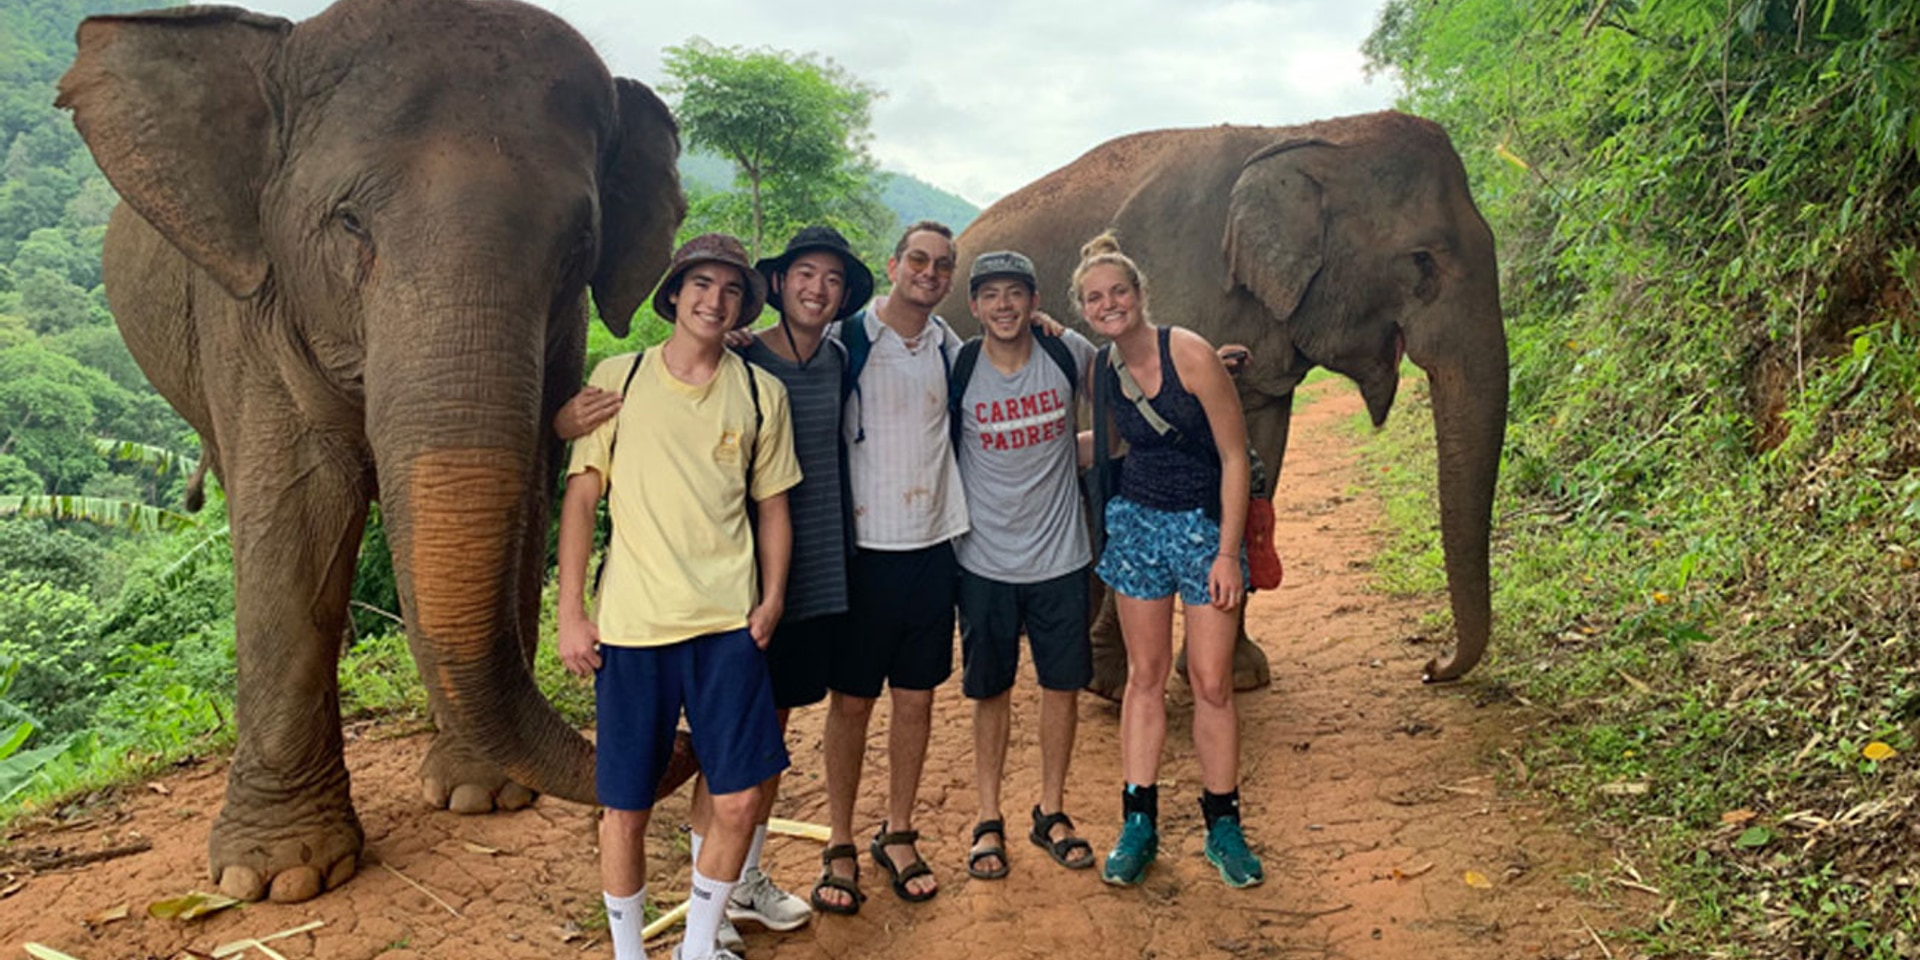
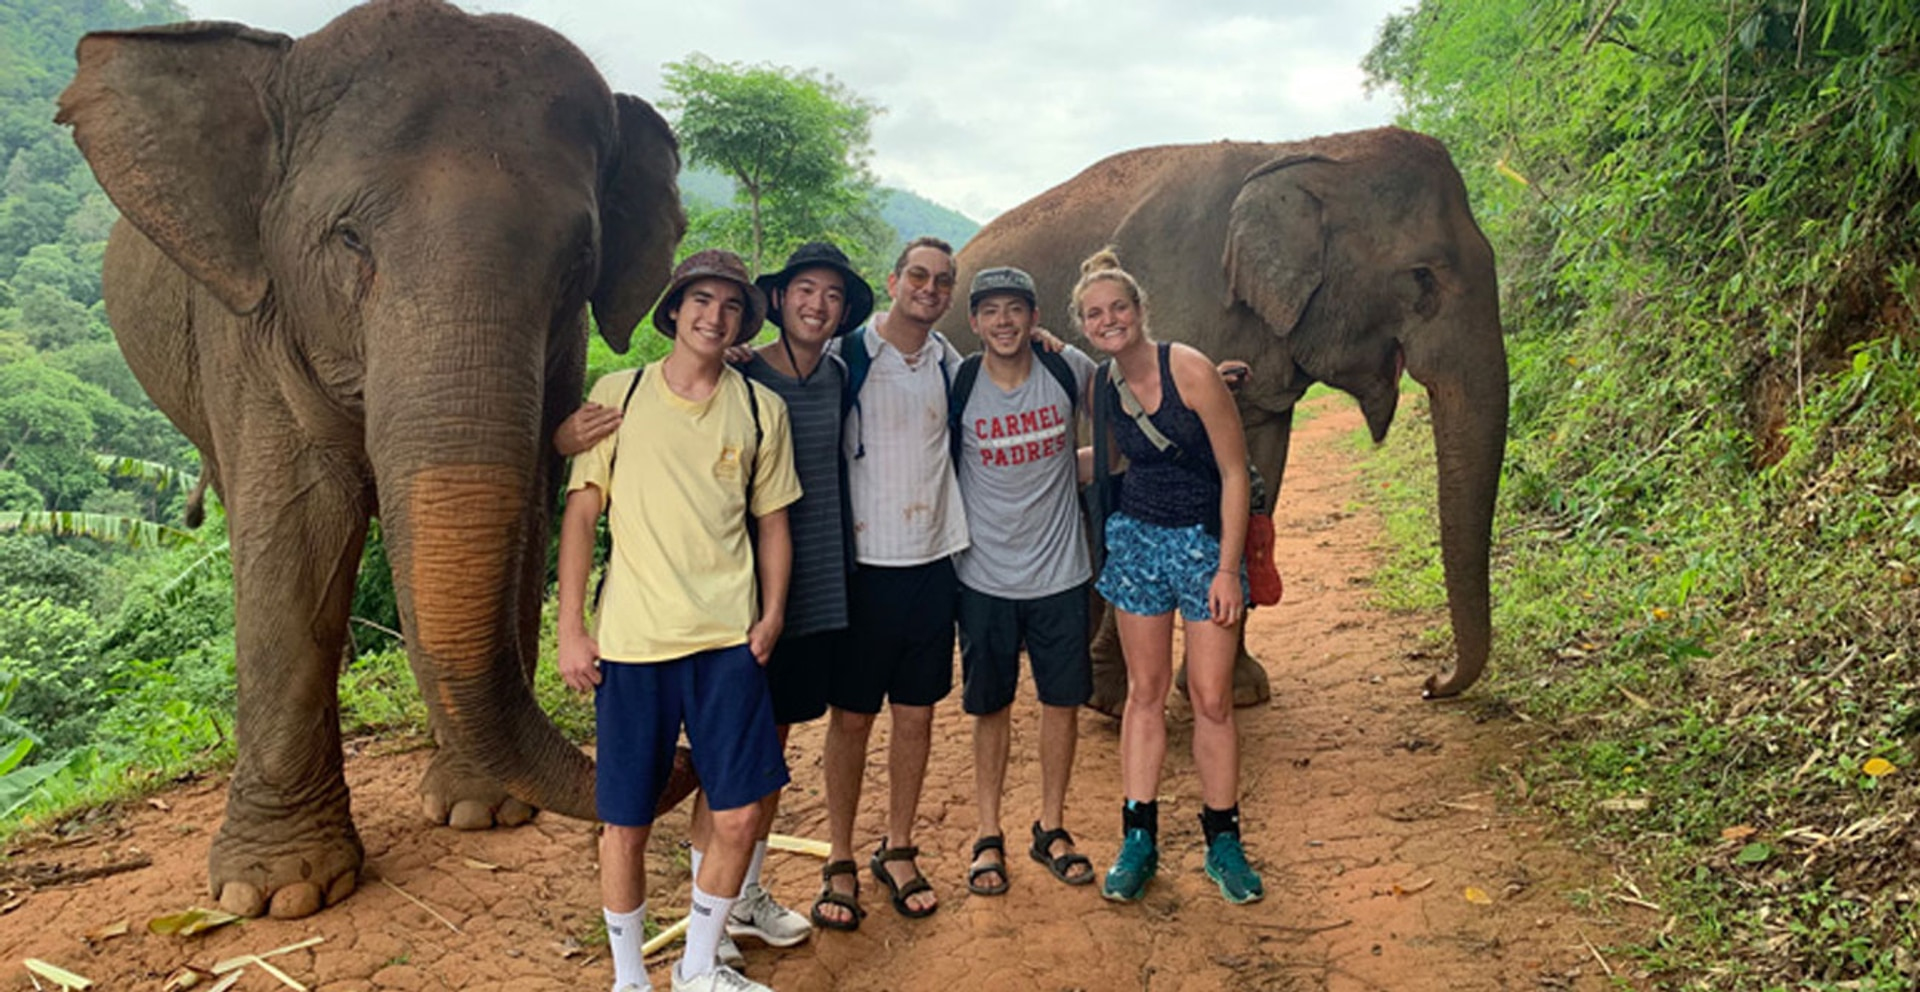
Use one clean full-bleed cover photo; remove composite mobile asset.
The overlapping look came from a letterboxed/composited mobile cover.
Back to a single Thailand elephants image with object-fit cover, ghost
CTAs, and entrance motion only.

diff --git a/assets/css/scrapbook-shell.css b/assets/css/scrapbook-shell.css
@@ -730,19 +730,15 @@ body.scrapbook-home.scrapbook-home-scrolled #header {
 	z-index: 0;
 }
 
-.scrapbook-hero-media picture,
 .scrapbook-hero-media img {
 	display: block;
 	width: 100%;
 	height: 100%;
-}
-
-.scrapbook-hero-media img {
 	object-fit: cover;
-	object-position: center center;
+	object-position: center 42%;
 	transform: scale(1.04);
 	transition: transform 1.4s cubic-bezier(0.22, 1, 0.36, 1), opacity 1s ease;
-	opacity: 0.94;
+	opacity: 0.96;
 }
 
 body.scrapbook-home-ready .scrapbook-hero-media img {
@@ -755,7 +751,7 @@ body.scrapbook-home-ready .scrapbook-hero-media img {
 	inset: 0;
 	z-index: 1;
 	background:
-		linear-gradient(180deg, rgba(18, 28, 30, 0.22) 0%, rgba(18, 28, 30, 0.05) 42%, rgba(18, 28, 30, 0.45) 70%, rgba(18, 28, 30, 0.78) 100%);
+		linear-gradient(180deg, rgba(18, 28, 30, 0.2) 0%, rgba(18, 28, 30, 0.04) 40%, rgba(18, 28, 30, 0.4) 72%, rgba(18, 28, 30, 0.72) 100%);
 	pointer-events: none;
 }
 
@@ -846,14 +842,14 @@ body.scrapbook-home-ready .scrapbook-hero-actions {
 
 .scrapbook-hero-actions a.is-soft {
 	color: #fff;
-	border: 1.5px solid rgba(255, 255, 255, 0.88);
+	border: 1.5px solid rgba(232, 214, 180, 0.95);
 }
 
 .scrapbook-hero-actions a.is-soft:hover,
 .scrapbook-hero-actions a.is-soft:focus {
-	background: rgba(255, 255, 255, 0.12);
+	background: rgba(232, 214, 180, 0.12);
 	color: #fff;
-	border-color: #fff;
+	border-color: rgba(232, 214, 180, 1);
 }
 
 .scrapbook-hero-actions a.is-accent {
@@ -902,6 +898,10 @@ body.scrapbook-home.scrapbook-home-animate .scrapbook-recent-grid a.is-inview {
 }
 
 @media (max-width: 767px) {
+	.scrapbook-hero-media img {
+		object-position: center 38%;
+	}
+
 	.scrapbook-hero-copy {
 		padding-bottom: calc(28px + env(safe-area-inset-bottom, 0px));
 		text-align: center;
@@ -914,13 +914,13 @@ body.scrapbook-home.scrapbook-home-animate .scrapbook-recent-grid a.is-inview {
 
 	.scrapbook-hero-actions {
 		justify-content: center;
-		flex-wrap: wrap;
+		flex-wrap: nowrap;
 	}
 
 	.scrapbook-hero-actions a,
 	.scrapbook-hero-actions a:hover,
 	.scrapbook-hero-actions a:focus {
-		flex: 1 1 auto;
+		flex: 0 1 auto;
 		min-width: 0;
 		padding: 0 14px;
 		font-size: 13px;

diff --git a/index.html b/index.html
@@ -19,12 +19,12 @@
 	<link rel="stylesheet" href="assets/css/bootstrap.min.css" />
 	<link rel="stylesheet" href="assets/css/style.css" />
 	<link rel="stylesheet" href="assets/css/responsive.css" />
-	<link rel="stylesheet" href="assets/css/scrapbook-shell.css?v=18" />
+	<link rel="stylesheet" href="assets/css/scrapbook-shell.css?v=19" />
 
 	<script src="https://code.jquery.com/jquery-3.5.1.min.js" integrity="sha256-9/aliU8dGd2tb6OSsuzixeV4y/faTqgFtohetphbbj0=" crossorigin="anonymous"></script>
 	<script>
 	$(function(){
-	  $("#header").load("header-H.html?v=14");
+	  $("#header").load("header-H.html?v=15");
 	});
 	</script>
 </head>
@@ -33,10 +33,7 @@
 
 	<section class="scrapbook-hero" aria-label="ONGtheroad cover">
 		<div class="scrapbook-hero-media">
-			<picture>
-				<source media="(max-width: 767px)" srcset="assets/images/scrapbook/home-cover-mobile.jpeg?v=8">
-				<img src="assets/images/scrapbook/home-cover-wide.jpeg?v=8" alt="Friends standing with elephants in Thailand" width="1920" height="960">
-			</picture>
+			<img src="assets/images/scrapbook/home-cover-wide.jpeg?v=9" alt="Friends standing with elephants in Thailand" width="1920" height="992">
 		</div>
 		<div class="scrapbook-hero-scrim" aria-hidden="true"></div>
 		<div class="scrapbook-hero-copy">

diff --git a/assets/js/site-nav.js b/assets/js/site-nav.js
@@ -3,7 +3,7 @@
     'use strict';
 
     var DEFAULT_LIST = 'Travel-Pages/20s/20s-2026.html';
-    var SHELL_CSS = '/assets/css/scrapbook-shell.css?v=18';
+    var SHELL_CSS = '/assets/css/scrapbook-shell.css?v=19';
     var LIST_CSS = '/assets/css/scrapbook-list.css?v=13';
     var LIST_JS = '/assets/js/scrapbook-list.js?v=6';
     var TRIP_CSS = '/assets/css/travel-trip.css?v=7';
@@ -91,7 +91,7 @@
         var link;
         for (i = 0; i < existing.length; i++) {
             linkHref = existing[i].getAttribute('href') || '';
-            if (linkHref.indexOf('scrapbook-shell.css?v=18') !== -1) {
+            if (linkHref.indexOf('scrapbook-shell.css?v=19') !== -1) {
                 existing[i].setAttribute('data-scrapbook-shell', 'true');
                 hasCurrent = true;
             } else if (existing[i].parentNode) {

diff --git a/header-H.html b/header-H.html
@@ -1,4 +1,4 @@
-<link rel="stylesheet" href="/assets/css/scrapbook-shell.css?v=18">
+<link rel="stylesheet" href="/assets/css/scrapbook-shell.css?v=19">
 <header class="scrapbook-shell scrapbook-shell-overlay" role="banner">
 	<div class="scrapbook-shell-inner">
 		<a class="scrapbook-logo" href="/index.html">ONG<span>theroad</span></a>
